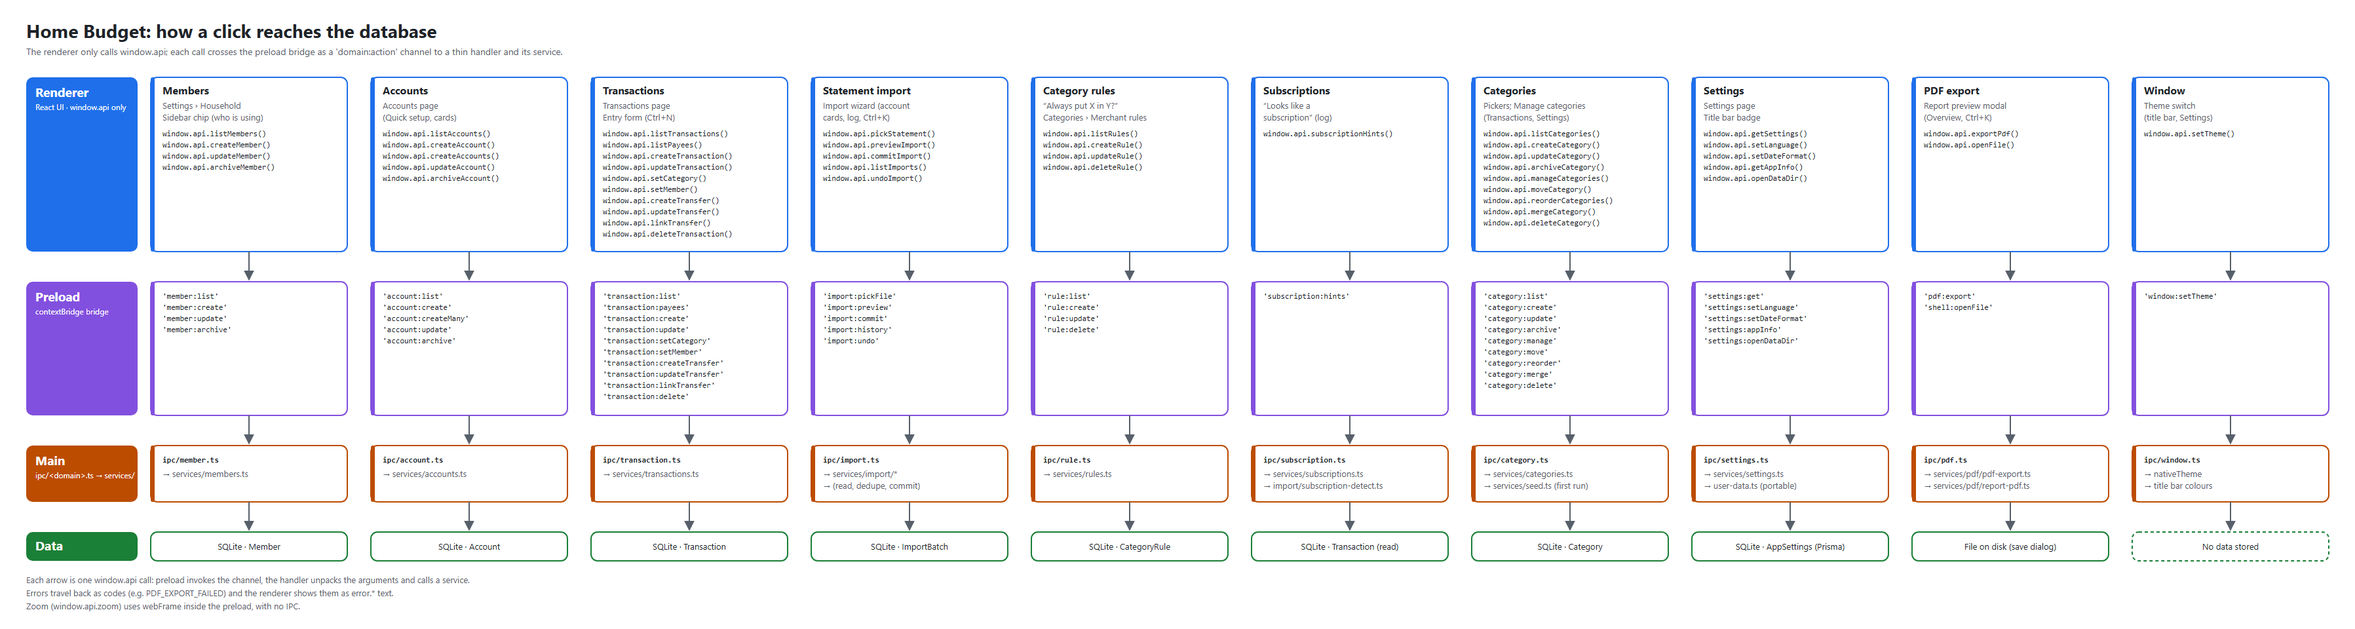
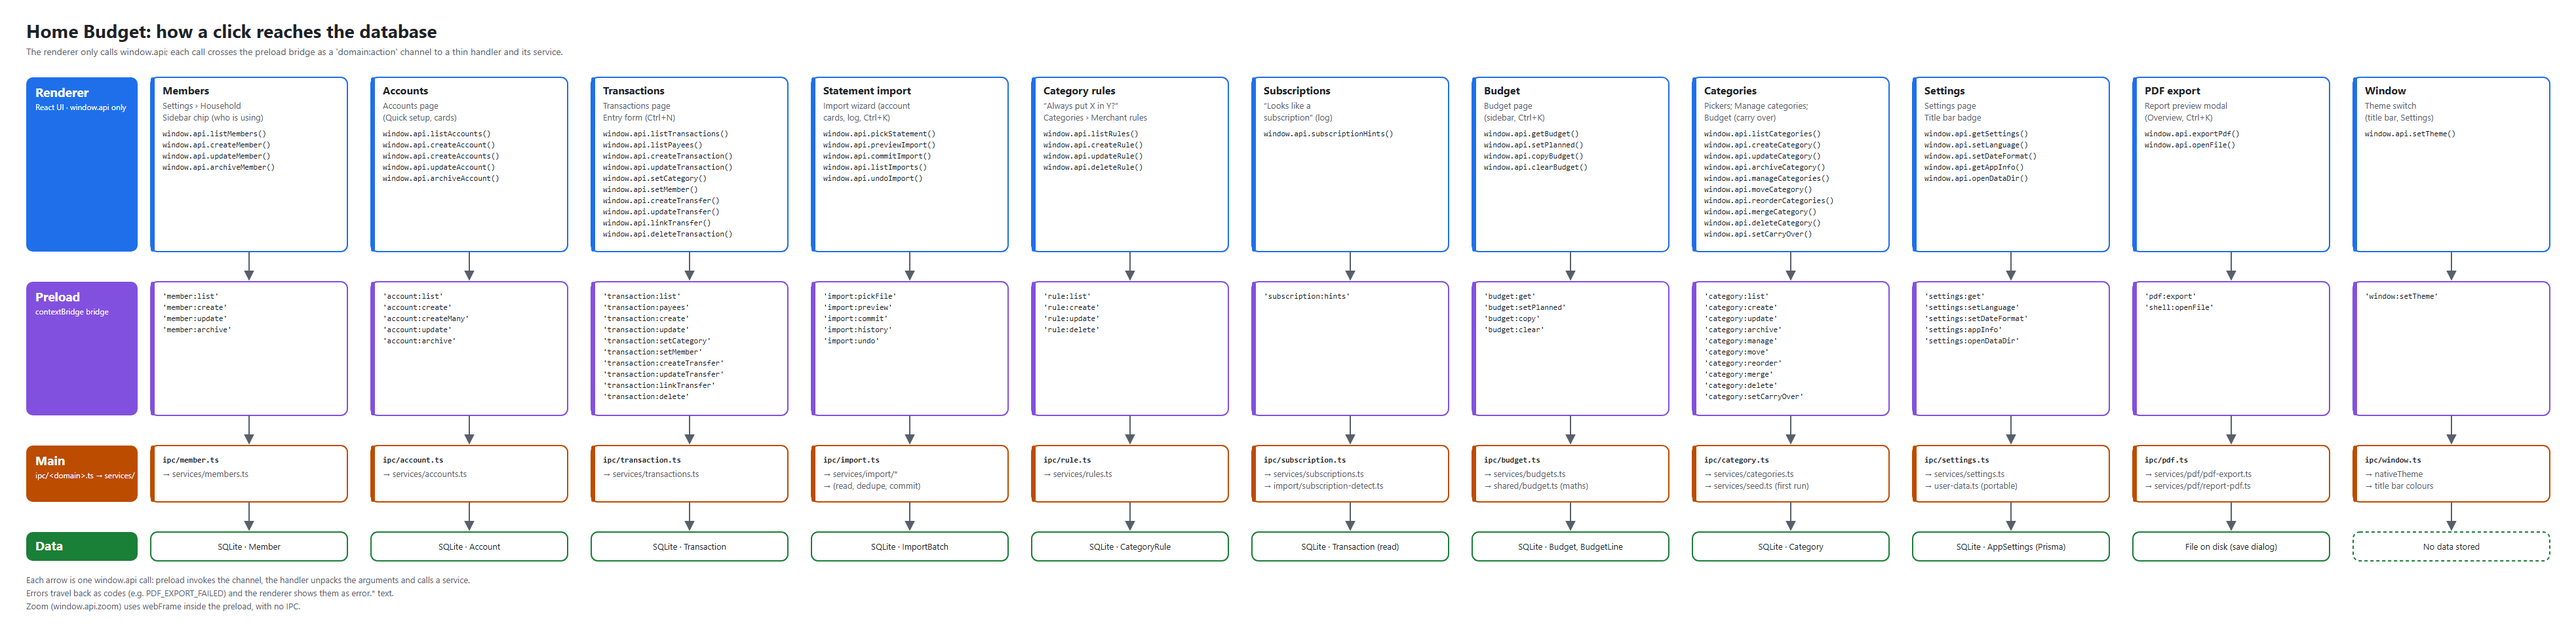
docs: monthly budget feature doc, domain model and roadmap #5 done; diagram redrawn

diff --git a/docs/features/budget.md b/docs/features/budget.md
@@ -1,0 +1,81 @@
+# Monthly budget
+
+**User's job:** at the start of the month, give every euro of expected income a job in two minutes; during the
+month, see at a glance how much is left in each category and where the household went over. Starts from **Budget**
+in the sidebar (also `Ctrl+K`), on the current month.
+
+## UX
+
+- **Header:** "Budget", then the context line (`past month • 18 categories planned • updated 28/10/2026`). On the
+  right: the month switcher `‹ October 2026 ›` (PageUp / PageDown when no field has focus), **This month** when away
+  from it, **Print**, and **More** (*Fill empty lines from the plan of …*, *… from … spending*, *Clear plan*).
+- **Tiles:** **Expected income** (received so far), **Left to budget** (income − planned outgoings; at 0 "Every euro
+  has a job" with a check, below 0 a warning icon), **Left to spend** (spent of available, with a meter).
+- **Banners:** rows of the month with no category ("… so they are not in the budget", **Categorise** opens the log
+  on those rows) and spending in categories with no plan (**Show** scrolls to the first one, flagged *Not planned*).
+- **Table:** one collapsible card per type (Income, Bills, Subscriptions, Spending, Debt, Savings), a summary on the
+  card title ("planned €1.200 · spent €850"), each group as a grey sub-header with its sums, then its categories:
+  name · **Planned** (inline input) · Spent · Left · meter · **More**. Income reads *Expected · Received · To come*.
+  - **Planned cell:** type and press Enter (saves, moves to the next category), Tab, or leave it; Esc puts the saved
+    amount back; ↑/↓ move between categories. A check shows for 1.5 s after a save; a bad amount shows the error
+    under the cell. Blank or 0 removes the line.
+  - **Over the plan:** the Left amount turns red with a warning icon and the meter fills red; the text says "over",
+    so colour is never the only sign.
+  - **Carry over:** a ↻ mark on the name; "+€40 from September" under it when money was carried in.
+  - **More:** *Show transactions* (the log on this month and category), *Set to last month's spending (€x)*,
+    *Carry unspent money into next month* / *Stop carrying* (outgoing categories only).
+- **Empty month:** "No plan for October 2026 yet", with the best start as the primary button: *Copy the plan of
+  September*, else *Start from September spending*, else *Start blank*. The others stay as secondary buttons.
+- **States:** loading spinner; future month (Spent shows "—", no meters); no categories (link to Categories);
+  archived categories show (read-only, *Archived*) only in months they were planned or used in.
+
+## Behaviour
+
+- **Plan level:** amounts per category; a group shows the sum of its categories. Income is planned per income
+  category too (decided 2026-10-28).
+- **Actual** = −sum of the category's rows in the month for outgoing types (a refund lowers it), +sum for income.
+  Transfers have no category, so they never count; uncategorised rows are only counted in the banner.
+- **Left to budget** = planned income − planned outgoings (zero-based: the goal is 0).
+  **Left to spend** = available − actual over outgoing categories, where *available* = planned + carried in.
+- **Carry over** (per category, opt-in, decided 2026-10-28): unspent money of a month moves into the next,
+  chained from the first month the category was planned; a month without a line plans 0 but still carries.
+  Overspending never carries (the carry stops at 0).
+- **Copy** fills **only empty lines** of the month from last month's plan, or from last month's spending rounded up
+  to whole euros; typed amounts are never overwritten. Nothing to copy → `BUDGET_SOURCE_EMPTY`.
+- **Categories:** a merge adds the merged category's lines to the target (same month → summed); deleting an unused
+  category deletes its lines; archiving keeps them.
+- Saves are applied on screen at once and reloaded from the database; a failed save puts the stored amount back.
+
+## Code
+
+| Path | Role |
+| --- | --- |
+| `src/shared/budget.ts` | Types and the maths: actual from sums, carry chain, rows, group sums, tiles |
+| `src/main/services/budgets.ts` | Month view (one grouped sum per month, carry for carry-over categories), set, copy, clear |
+| `src/main/services/categories.ts` | `setCarryOver`; merge and delete handle budget lines |
+| `src/renderer/src/pages/BudgetScreen.tsx` | Page: header, empty state, banners, print |
+| `src/renderer/src/components/budget/` | `MonthSwitcher`, `BudgetSummaryTiles`, `BudgetTable`, `PlannedCell` |
+| `src/renderer/src/components/ui/Meter.tsx` | Kit meter: accent → warning → danger fill on a lighter track of the same ramp |
+| `src/renderer/src/store/budget.ts` | Month, data, optimistic set, copy, clear, carry-over, outcome of a `Ctrl+K` copy |
+| `src/renderer/src/lib/budget.ts` | Month helpers, Planned cell text and parsing, meter tone, optimistic recompute |
+| `src/renderer/src/lib/budget-worksheet.ts` | `buildBudgetStatement`: the worksheet filled from the month |
+
+## IPC
+
+| Channel | Args → result | Errors |
+| --- | --- | --- |
+| `budget:get` | `(month)` → `BudgetMonth` | `INVALID_INPUT` |
+| `budget:setPlanned` | `(month, categoryId, plannedCents)`; 0 removes the line | `INVALID_INPUT`, `INVALID_AMOUNT`, `CATEGORY_NOT_FOUND` |
+| `budget:copy` | `({ from, to, source: 'PLAN' \| 'ACTUAL' })` → lines written | `INVALID_INPUT`, `BUDGET_SOURCE_EMPTY` |
+| `budget:clear` | `(month)` | `INVALID_INPUT` |
+| `category:setCarryOver` | `(id, carryOver)` | `INVALID_INPUT`, `CATEGORY_NOT_FOUND` |
+
+## Tests
+
+`src/shared/budget.test.ts` (signs and refunds, carry chain, rows and tiles), `src/main/__tests__/budget-services.test.ts`
+(set/remove, refusals, transfers left out, unplanned and uncategorised counts, archived categories, carry over
+across a month with no line, copy of plan and spending, clear, merge and delete), `lib/budget.test.ts` (month
+helpers, Planned cell, meter tone, optimistic recompute), `lib/budget-worksheet.test.ts` (filled statement) and the
+`Meter` block in `components/ui/ui.test.tsx`.
+
+**Later:** budgeting per pay period (with Yearly budget #10); over-budget notifications (#8); Overview tiles (#6).

diff --git a/docs/domain-model.md b/docs/domain-model.md
@@ -1,6 +1,6 @@
 # Domain Model (draft)
 
-As of 2026-10-27. Entities are added to `prisma/schema.prisma` one feature at a time, and this doc is updated in the
+As of 2026-10-28. Entities are added to `prisma/schema.prisma` one feature at a time, and this doc is updated in the
 same change. **In schema** marks what exists; the rest is a draft. Open questions are marked **?**.
 
 ## Money rules
@@ -17,11 +17,12 @@ same change. **In schema** marks what exists; the rest is a draft. Open question
 | **Member** *(in schema)* | A parent of the household (children are not tracked); archived, never deleted. Who uses the app is chosen per PC, not stored here | name, colour (palette key from `MEMBER_COLOURS`), sortOrder, archivedAt |
 | **Account** *(in schema)* | Where money sits. One statement source = one account, so a credit card is an account of kind `CREDIT_CARD` | name, kind (`CURRENT`/`SAVINGS`/`CASH`/`CREDIT_CARD`), institution (`ALPHA`/`EUROBANK`/`OTHER`), currency, openingBalanceCents, openingDate, importProfile?, importMapping?, holderMemberId? (null = joint), sortOrder, archivedAt |
 | **Card** *(in schema)* | A plastic card on an account: debit cards on a current account, main and supplementary cards on a credit card account (the credit card itself is the account). Removed with its account's card list; matching a row to its card: later | accountId, last4 (4 digits, unique per account), holderMemberId?, sortOrder |
-| **Category** *(in schema)* | Two levels: group → category (Bills → Electricity). The **type** is set on the group and its categories follow it | name, parentId, type (`INCOME`/`EXPENSE`/`BILL`/`SUBSCRIPTION`/`DEBT`/`SAVINGS`), icon, sortOrder, archivedAt |
+| **Category** *(in schema)* | Two levels: group → category (Bills → Electricity). The **type** is set on the group and its categories follow it | name, parentId, type (`INCOME`/`EXPENSE`/`BILL`/`SUBSCRIPTION`/`DEBT`/`SAVINGS`), icon, sortOrder, carryOver (unspent budget moves to next month), archivedAt |
 | **Transaction** *(in schema)* | A booked movement. `categoryId = null` means "to categorise" (transfers never need one) | accountId, bookedAt (date only, 12:00 UTC), amountCents, description (bank text), payee, categoryId?, note, memberId? (who it was for; null = household), createdByMemberId? (who entered it; set once), transferId?, importBatchId?, fingerprint?, bankReference?, balanceAfterCents? |
 | **ImportBatch** *(in schema)* | One imported statement file; undo removes its rows; its closing balance is checked against the app | accountId, fileName, fileHash, dateFrom, dateTo, rowCount, importedCount, skippedCount, statementBalanceCents?, statementBalanceDate?, createdByMemberId?, undoneAt |
 | **CategoryRule** *(in schema)* | Merchant rule: the first match by priority sets an imported row's category and payee | pattern (normalised), match (`CONTAINS`/`STARTS_WITH`/`EXACT`), accountId?, categoryId, payee?, priority, hitCount |
-| **Budget** | Plan for a month (yearly = 12 months) | month (`YYYY-MM`), lines: categoryId + plannedCents |
+| **Budget** *(in schema)* | The plan for one month (yearly = 12 months, later) | month (`YYYY-MM`, unique) |
+| **BudgetLine** *(in schema)* | Planned amount of one category (never a group) in one month, stored positive; removed with its budget | budgetId, categoryId, plannedCents (unique per budget and category) |
 | **RecurringRule** | Subscriptions, bills, salary, and **non-monthly** charges (yearly insurance, quarterly tax, every-2-months utilities) | name, amountCents (or estimate), interval (`MONTH`/`YEAR`/…, every N), nextDue, accountId, categoryId, remindDaysBefore, endsAt |
 | **Debt** | Loans, instalment purchases (άτοκες δόσεις), money owed to/by relatives | kind, principalCents, rate?, instalmentCents, startDate, termMonths, accountId, counterparty |
 | **Goal** *(later)* | Saving target (holidays, car) | targetCents, targetDate, accountId |
@@ -47,14 +48,19 @@ same change. **In schema** marks what exists; the rest is a draft. Open question
 - **Changing categories**: archiving hides a category (a group takes its categories) but its rows keep it and still
   count; moving a category to another group gives it that group's type; **merging** A into B moves A's rows and
   rules to B (a rule B already has is dropped) and archives the empty A; only a category no row uses can be
-  deleted (its rules go with it), and only an empty group. Feature doc: [features/categories.md](features/categories.md).
+  deleted (its rules and budget lines go with it), and only an empty group; a merge adds A's budget lines to B's
+  (same month → summed). Feature doc: [features/categories.md](features/categories.md).
 - **Starting data**: an empty database gets the category groups (one per type) and common Greek merchant rules, in
   the app language of that moment (`src/main/services/seed.ts`). After that they are the household's own data.
 
 ## Derived views (no tables)
 
 - **Balance** of an account = opening balance + sum of its transactions.
-- **Budget vs actual** per category and month = planned lines vs sum of expense transactions (transfers excluded).
+- **Budget vs actual** per category and month: *actual* = −sum of its rows for outgoing types (a refund lowers
+  it), +sum for income; transfers have no category, so they never count. *Carried in* (carry-over categories) =
+  max(0, last month's planned + carried in − actual), chained from the first planned month; *available* = planned +
+  carried in. **Left to budget** = planned income − planned outgoings (zero-based goal 0); **left to spend** =
+  available − actual over outgoing types. Feature doc: [features/budget.md](features/budget.md).
 - **Upcoming** = recurring rules and debt instalments due in the next N days, each `UPCOMING` / `DUE` / `OVERDUE` /
   `PAID` (matched to a transaction) / `SKIPPED`.
 - **Projection** = today's balances + planned income − recurring charges − instalments, month by month.

diff --git a/docs/roadmap.md b/docs/roadmap.md
@@ -1,12 +1,12 @@
 # Home Budget — Feature Roadmap
 
-As of 2026-10-27 · Andrew Kondylis
+As of 2026-10-28 · Andrew Kondylis
 
 ## Overview
 
 The project starts from the Matchday shell (theme, UI kit, UX rules). The Matchday conveniences (palette, hover cards, tour, portable edition, PDF preview) have been ported.
 The first domain slice has shipped: accounts and cards, categories, transactions with quick cash entry, and Alpha
-Bank / Eurobank statement import (plan `.claude/plans/in-the-app-i-quizzical-stroustrup.md`). **15 items** are queued
+Bank / Eurobank statement import (plan `.claude/plans/in-the-app-i-quizzical-stroustrup.md`). **14 items** are queued
 in Future, grouped by theme with one global priority (`#`); the order is a proposal to discuss. Three items wait on a
 decision.
 
@@ -22,6 +22,7 @@ Details live in the linked feature doc (`docs/features/`). Newest first.
 
 | Shipped | Feature | Notes |
 | --- | --- | --- |
+| 2026-10-28 | Monthly budget | Plan per category (groups sum), income planned per category; inline amounts that save on their own; copy last month's plan or last month's spending into empty lines; budget vs actual with meters; **Left to budget** (zero-based) and **Left to spend**; per-category **Carry over** of unspent money only (plan level, income, rollover and editing decided 2026-10-28); banners for rows to categorise and unplanned spending; printable sheet filled from the plan · [budget](features/budget.md) |
 | 2026-10-28 | Category management | Categories page off Transactions (and Settings, `Ctrl+K`): rename, reorder, move between groups, merge (the merged one is archived, decided 2026-10-28), archive/restore, delete when unused, counts per category, **Show transactions**; **Merchant rules** tab to search, add, edit and delete rules · [categories](features/categories.md) |
 | 2026-10-28 | Account holders & cards | Each account has a holder (a parent or Joint), shown on its card; cards per account (debit cards, main and supplementary credit cards) with last 4 digits and holder, edited in the account form and saved in one go. The holder is shown only, never a default "For" (decided 2026-10-27) · [accounts](features/accounts.md) |
 | 2026-10-27 | Members | Parents only ("children included?" answered 2026-10-27), name and colour, in Settings → Household; "who is using the app" chip in the sidebar (per PC, `Ctrl+K`) stamps who entered each row and import; transactions carry **For** (a parent or Household) with a payee default, a log filter and bulk **Set "For"…** · [members](features/members.md) |
@@ -44,8 +45,7 @@ Sizes: S ≈ ½ day, M ≈ 1–2 days, L > 2 days. *New* marks items added after
 
 | # | Feature | Size | What it does | Depends on / plan | Open |
 | --- | --- | --- | --- | --- | --- |
-| 5 | Monthly budget | M | Plan per category, copy last month, budget vs actual with progress; **left to budget** (income − planned, zero-based) next to **left to spend**; rollover of unspent amounts as a per-category opt-in (decided 2026-10-26); budgeting per pay period as a later option | Categories, transactions | — |
-| 6 | Overview (live) | M | Stat tiles from real data, upcoming bills, over-budget banners | Transactions, #5 | — |
+| 6 | Overview (live) | M | Stat tiles from real data, upcoming bills, over-budget banners | Transactions, Monthly budget | — |
 
 ### Planning & reminders
 
@@ -55,7 +55,7 @@ Sizes: S ≈ ½ day, M ≈ 1–2 days, L > 2 days. *New* marks items added after
 | 8 | Notifications | M | Sidebar bell (Matchday pattern): bill due, overdue, over budget, instalment due; Windows toast | #7, #9 | Remind N days before? |
 | 17 | Payment calendar *(new)* | M | Amounts due by date with paid marks, pay days across the year; week starts Monday or Sunday | #7 | — |
 | 9 | Debts & loans | M | Loans, interest-free instalments, money owed; remaining balance, payoff date, schedule; **snowball / avalanche** payoff with an extra monthly amount, interest before payment, manual balance override | Accounts | Interest calculation needed? |
-| 10 | Yearly budget | S–M | 12-month plan view, year vs last year | #5 | — |
+| 10 | Yearly budget | S–M | 12-month plan view, year vs last year; budgeting per pay period as an option | Monthly budget | — |
 | 11 | Projections | M | Balance forecast per month from rules, instalments and planned income | #7, #9 | Horizon (6/12/24 months) |
 
 ### Insight & data

diff --git a/docs/architecture.md b/docs/architecture.md
@@ -29,14 +29,15 @@ behind a transport adapter, without rewriting business logic.
 src/main/
   index.ts                   Window, startup (portable check → migrations → settings → handlers), clean shutdown
   user-data.ts               Portable edition: marker detection, data folder next to the exe
-  ipc/                       One file per domain: settings, pdf, window, member, account, category, transaction, import, rule, subscription
-  services/                  Business logic (settings, members, accounts, categories, transactions, rules, import/, pdf/; later budgets…)
+  ipc/                       One file per domain: settings, pdf, window, member, account, category, transaction, import, rule, subscription, budget
+  services/                  Business logic (settings, members, accounts, categories, transactions, rules, budgets, import/, pdf/)
   services/pdf/              report-pdf.ts (ReportDocument → PDF, pdf-lib), pdf-export.ts (save dialog), pdf-text.ts
   db/                        migrate.ts, prisma.ts, db-path.ts, pragmas.ts (journal mode), startup-backup.ts
 src/shared/                  Pure code used by both processes
   money.ts                   formatMoney / parseMoney / sumMoney (integer cents)
   date-format.ts             formatDate / formatDateTime in the chosen format
   report-document.ts         Printable report model (zod), shared by the PDF and its on-screen preview
+  budget.ts                  Budget types and maths (actual, carry, left to budget / to spend)
   search-normalise.ts        Greek → Latin, accent-free text for search
 src/preload/index.ts         contextBridge → window.api
 src/renderer/

diff --git a/docs/features/categories.md b/docs/features/categories.md
@@ -43,6 +43,8 @@ the right category — fix a wrong merchant rule in seconds instead of re-sortin
 - **Move** gives the category the new group's type and puts it last there. Groups never move under another group.
 - **Merge** A → B, in one database transaction: rows and rules move to B, a rule B already has (same pattern,
   account and match) is dropped, and A is archived (decided 2026-10-28). Merging into a group is refused.
+- **Budget:** a merge adds A's budget lines to B (same month → summed); a delete removes the category's lines. The
+  per-category **Carry over** switch lives on the Budget page ([budget](budget.md)).
 - **Delete** only when no row uses the category (its rules are deleted with it), or a group has no categories at
   all (archived ones included). Otherwise `CATEGORY_IN_USE`.
 - **Names:** the unique index also covers archived categories, so a rename or move onto the name of an archived
@@ -72,6 +74,7 @@ the right category — fix a wrong merchant rule in seconds instead of re-sortin
 | `category:reorder` | `(parentId \| null, orderedIds)` | `INVALID_INPUT` |
 | `category:merge` | `(sourceId, targetId)` → `{ transactions, rules }` | `INVALID_INPUT`, `CATEGORY_NOT_FOUND` |
 | `category:delete` | `(id)` | `INVALID_INPUT`, `CATEGORY_NOT_FOUND`, `CATEGORY_IN_USE` |
+| `category:setCarryOver` | `(id, carryOver)` | `INVALID_INPUT`, `CATEGORY_NOT_FOUND` |
 | `rule:update` | `(id, patch)`; the patch may set `accountId` | adds `ACCOUNT_NOT_FOUND` |
 
 `category:list` / `:create` / `:update` and the other `rule:*` channels are in [transactions](transactions.md#ipc).

diff --git a/docs/features/pdf-export.md b/docs/features/pdf-export.md
@@ -17,8 +17,9 @@ see exactly what will be printed before saving it.
 
 Portrait A4 with tall ruled rows to write on: Income (2 categories + 2 blank + total), Expenses (14 starter
 categories + 2 blank + total), Summary (totals and what is left over), and a footnote explaining
-*Difference = planned − actual*. Once transactions and budgets exist, the same document gets real figures and
-becomes the monthly statement.
+*Difference = planned − actual*. Overview and `Ctrl+K` print it blank. The Budget page's **Print** fills it from
+the month (`buildBudgetStatement`): the household's groups and categories with planned (with carry), actual and
+difference, totals and what is left over ([budget](budget.md)).
 
 ## How it works
 
@@ -44,7 +45,7 @@ becomes the monthly statement.
 | `src/main/services/pdf/pdf-export.ts` | Save dialog and write; open the saved file |
 | `src/main/ipc/pdf.ts` | Thin handlers |
 | `src/renderer/src/components/pdf/` | `ReportPreviewModal`, `ReportPaper`, `WorksheetPreviewModal` |
-| `src/renderer/src/lib/budget-worksheet.ts` | Worksheet builder |
+| `src/renderer/src/lib/budget-worksheet.ts` | Worksheet builder, blank or filled from a budget |
 
 ## IPC
 
